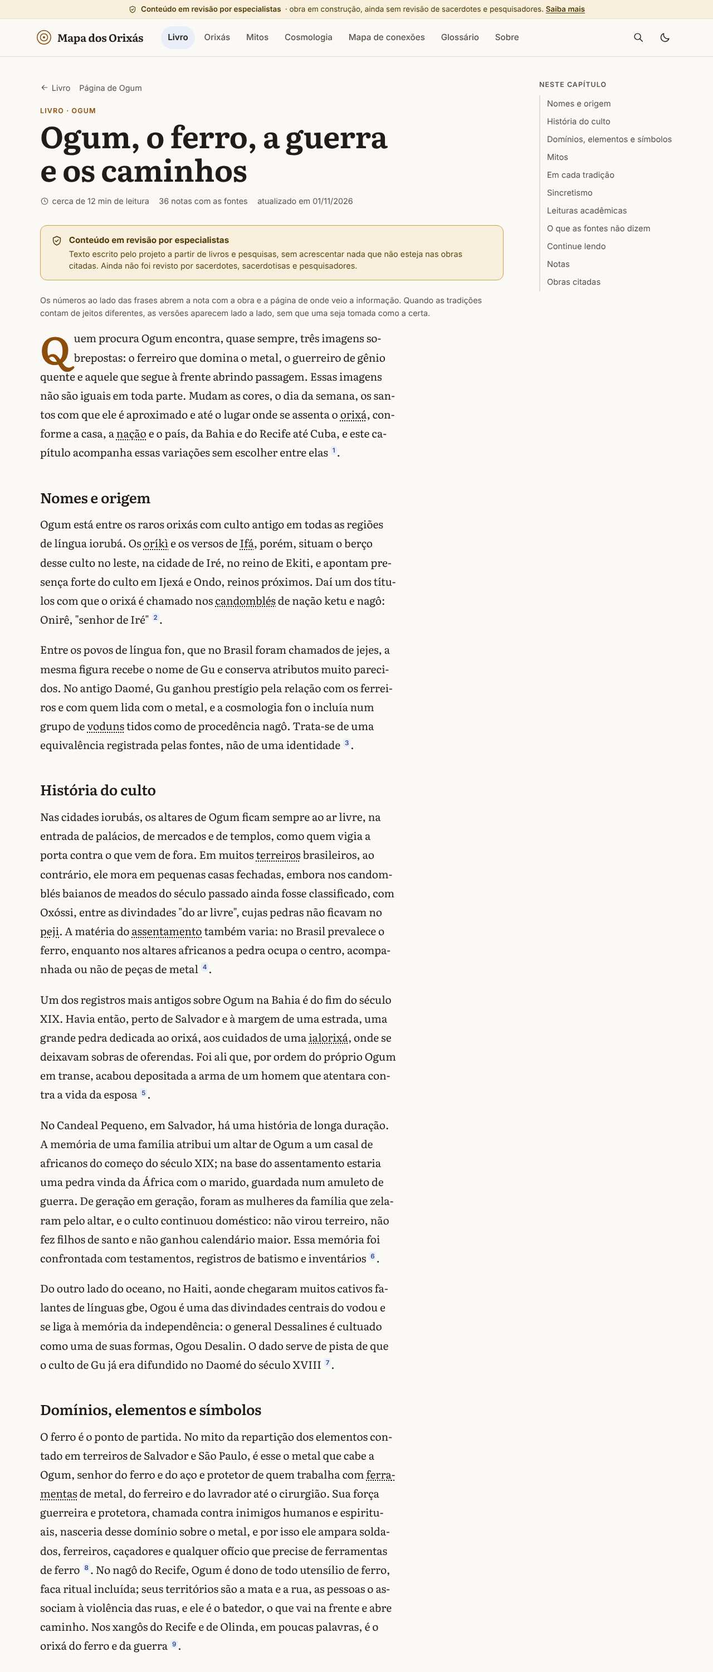
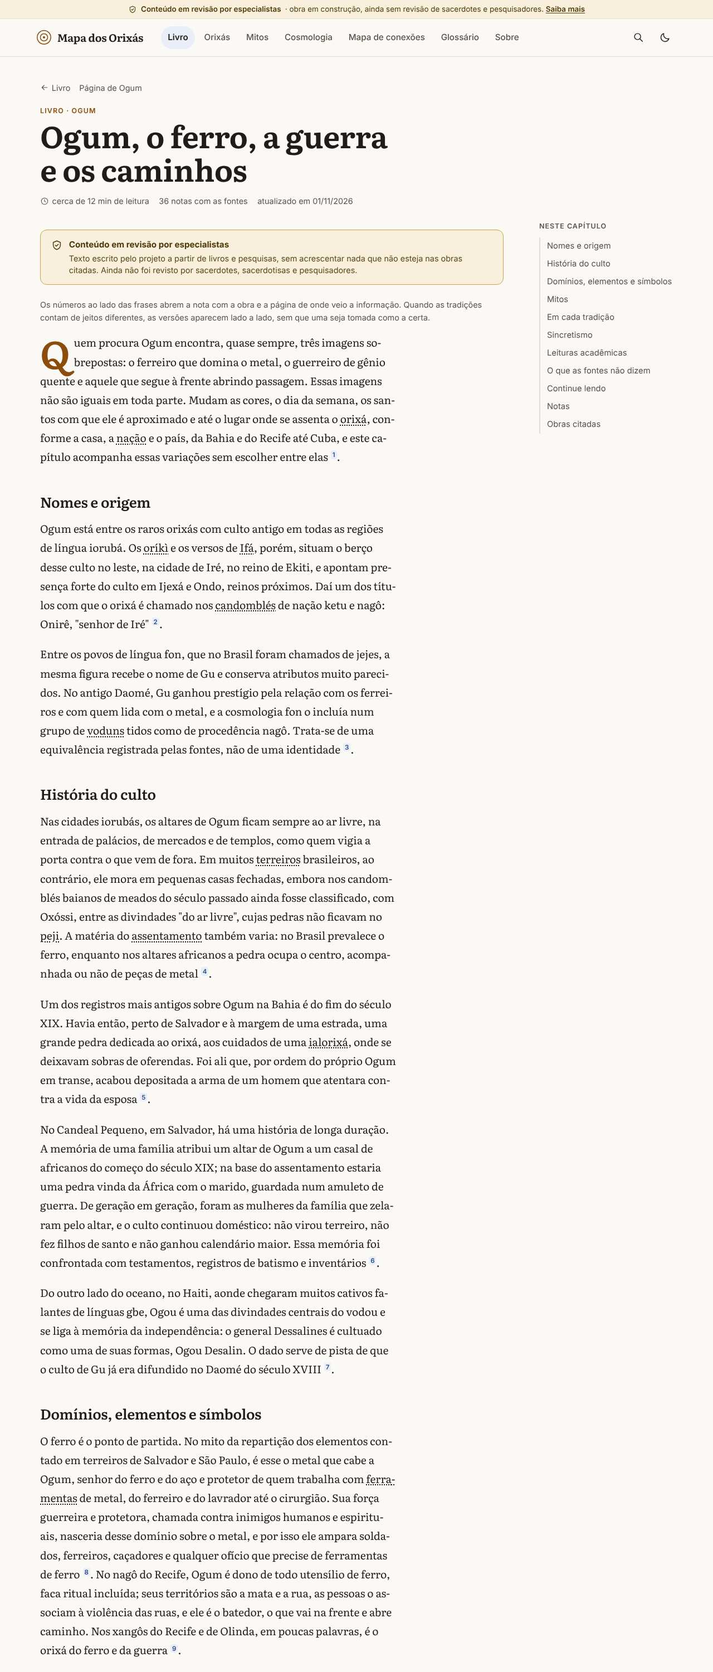
redesign: índice do capítulo sem pulo, mapa com posições do build, CSS embutido; teste de teclado, axe no tema escuro; relatório, ESTADO, publicação e PENDENCIAS
Claude-Session: https://claude.ai/code/session_011fM5cmiuwbGHtwpCrrwmfd

Changed region(s): [[0.0625, 0.124, 0.6875, 0.992], [0.75, 0.062, 0.875, 0.248]]

diff --git a/site/src/styles/global.css b/site/src/styles/global.css
@@ -207,7 +207,7 @@ p.aviso-sensivel.nota-caixa { border: 1px solid var(--borda); border-left: 4px s
   :root:not([data-tema='claro']) .etiqueta.g-afro_brasileira_regional { background: #352222; border-color: #cf8a8a; }
   :root:not([data-tema='claro']) .etiqueta.g-diaspora_caribenha { background: #1f2a38; border-color: #84a8d6; }
 }
-a.etiqueta { text-decoration: none; }
+a.etiqueta { text-decoration: none; display: inline-flex; align-items: center; min-height: 24px; padding: .1rem .6rem; }
 a.etiqueta:hover { text-decoration: underline; color: var(--texto); }
 
 /* ------------------------------------------------------------------ cartões */
@@ -363,7 +363,7 @@ sup.ref a:hover { background: var(--link); color: var(--fundo); }
 .notas li::marker { color: var(--texto-2); font-weight: 600; font-size: .85em; }
 .notas a { color: var(--link); }
 .notas li:target, .versao:target, tr:target, li:target { background: var(--marca-alvo); outline: 2px solid var(--aviso-borda); border-radius: 4px; }
-.voltar-nota { text-decoration: none; margin-left: .2rem; }
+.voltar-nota { margin-left: .2rem; }
 
 details.dobra { border: 1px solid var(--borda); border-radius: var(--raio); background: var(--superficie); margin: 1rem 0; }
 details.dobra > summary { cursor: pointer; padding: .9rem 1.1rem; font-weight: 600; list-style: none; display: flex; align-items: center; justify-content: space-between; gap: 1rem; }
@@ -395,24 +395,29 @@ a.termo-gl:hover { color: var(--link); }
 /* ------------------------------------------------------------------ capítulo (leitura) */
 .leitura { display: grid; gap: 2rem; grid-template-columns: minmax(0, 1fr); }
 @media (min-width: 68rem) { .leitura { grid-template-columns: minmax(0, 1fr) 15rem; gap: 4rem; } .leitura .indice-lateral { order: 2; } }
-.cabeca-capitulo { max-width: var(--coluna); margin: 0 auto 2rem 0; }
+.cabeca-capitulo { max-width: var(--coluna); margin: 0 0 1.5rem; }
+.topo-capitulo { margin-bottom: .5rem; }
 .cabeca-capitulo h1 { font-size: clamp(2.2rem, 1.6rem + 3vw, 3.4rem); line-height: 1.1; margin-bottom: 1rem; }
 .info-leitura { display: flex; flex-wrap: wrap; gap: .3rem 1.1rem; color: var(--texto-2); font-size: .9rem; align-items: center; }
 .info-leitura span { display: inline-flex; align-items: center; gap: .35rem; }
 .indice-lateral { font-size: .92rem; }
 .indice-lateral nav { position: sticky; top: 1.5rem; }
-.indice-lateral details { border: 1px solid var(--borda); border-radius: var(--raio); background: var(--superficie); }
-.indice-lateral summary { cursor: pointer; padding: .75rem 1rem; font-weight: 600; }
-.indice-lateral ol { list-style: none; margin: 0; padding: 0 1rem .8rem; counter-reset: sec; }
+.titulo-indice { font-size: .78rem; text-transform: uppercase; letter-spacing: .08em; color: var(--texto-2); font-weight: 600; margin: 0 0 .6rem; }
+.botao-indice { font: inherit; font-weight: 600; width: 100%; justify-content: space-between; align-items: center; min-height: 2.75rem; padding: .6rem 1rem; border: 1px solid var(--borda); border-radius: var(--raio); background: var(--superficie); color: var(--texto); cursor: pointer; }
+.indice-lateral ol { list-style: none; margin: 0; padding: 0; }
 .indice-lateral li { margin: 0; }
 .indice-lateral a { display: block; padding: .38rem 0 .38rem .75rem; border-left: 2px solid var(--borda); color: var(--texto-2); text-decoration: none; line-height: 1.35; }
 .indice-lateral a:hover { color: var(--texto); border-left-color: var(--borda-forte); }
 .indice-lateral a.atual { color: var(--texto); border-left-color: var(--ocre); font-weight: 600; }
+/* celular com JS: título vira botão e a lista fica recolhida */
+.js .titulo-indice { display: none; }
+.js .indice-lateral ol { display: none; padding: .6rem 1rem .2rem; }
+.js .indice-lateral.aberto ol { display: block; }
+.js .indice-lateral.aberto .botao-indice span { display: inline-block; transform: rotate(180deg); }
 @media (min-width: 68rem) {
-  .indice-lateral details { border: 0; background: transparent; }
-  .indice-lateral summary { padding: 0 0 .6rem; font-size: .78rem; text-transform: uppercase; letter-spacing: .08em; color: var(--texto-2); pointer-events: none; list-style: none; }
-  .indice-lateral summary::-webkit-details-marker { display: none; }
-  .indice-lateral ol { padding: 0; }
+  .js .titulo-indice { display: block; }
+  .js .botao-indice { display: none !important; }
+  .js .indice-lateral ol { display: block; padding: 0; }
 }
 .capitulo { max-width: var(--coluna); }
 .capitulo .paragrafo-capitulo { font-family: var(--serifa); font-size: 1.15rem; line-height: 1.78; margin: 0 0 1.25rem; hyphens: auto; -webkit-hyphens: auto; }

diff --git a/site/src/lib/grafo.js b/site/src/lib/grafo.js
@@ -17,6 +17,7 @@ export const FORMA_NO = {
   inquice: { forma: 'triangle', cor: '#1d6b4a', rotulo: 'triângulo' },
   nome_fon_ou_banto: { forma: 'vee', cor: '#4f6b5e', rotulo: 'seta (V)' },
   entidade: { forma: 'octagon', cor: '#8a5a00', rotulo: 'octógono' },
+  qualidade: { forma: 'round-tag', cor: '#a0522d', rotulo: 'etiqueta' },
 };
 export const ROTULO_LINHA = { solid: 'contínua', dashed: 'tracejada', dotted: 'pontilhada' };
 

diff --git a/site/src/lib/dados.js b/site/src/lib/dados.js
@@ -157,6 +157,7 @@ export const ROTULO_NO = {
   inquice: 'Inquice',
   nome_fon_ou_banto: 'Nome fon ou banto (sem classificação)',
   entidade: 'Entidade',
+  qualidade: 'Qualidade (de um orixá)',
 };
 
 export const ROTULO_TIPO_FONTE = {

diff --git a/scripts/qa_site.py b/scripts/qa_site.py
@@ -11,9 +11,11 @@ Confere, sem rede e só com a biblioteca padrão:
    arquivo publicado (HTML, JSON, TXT): paráfrase, nota e valor (quando o valor
    não coincide com o de um registro publicável). Os ids desses registros só podem
    aparecer na seção "Pendências" das fichas e no campo `pendencias` dos JSON.
-3. Selo de rascunho em toda ficha que tenha alguma versão sem revisão vigente
-   (sem selo, e com o aviso de ficha revisada, só quando TODAS as versões estão
-   'revisado'); `noindex` em todas as páginas.
+3. Selo "Conteúdo em revisão por especialistas" em toda ficha que tenha alguma
+   versão sem revisão vigente (sem selo, e com o aviso de ficha revisada, só quando
+   TODAS as versões estão 'revisado'); estado da revisão em "O que ainda falta"
+   (data-revisadas/data-total); `noindex` em todas as páginas. O registro de cada
+   nota fica no atributo data-registro (o código não aparece no texto).
 4. Links internos (href/src) apontam para arquivos existentes e âncoras (#id)
    existentes na página de destino.
 5. /dados/: cópias idênticas a data/ (exceto tradicoes.json, que só pode perder
@@ -27,8 +29,8 @@ Confere, sem rede e só com a biblioteca padrão:
    idênticas ao JSON; `rascunho_sem_fonte` com o aviso "Descrição pendente de
    fonte" e o texto do rascunho (descrição e nota) ausente de TODAS as páginas.
    Fichas e catálogo linkam para a página Tradições.
-8. Sobre: canal de contribuição pelas issues do repositório, link para Fontes,
-   aviso de que licenças, domínio e autoria dependem do autor e nenhum e-mail.
+8. Sobre: link para Fontes, seção #contribuir, aviso de revisão e de que licenças
+   e autoria dependem do autor; nenhum e-mail em nenhuma página.
 9. Revisão do conselho: cada versão mostra exatamente as linhas "Revisado por …
    (tradição) em …" / "Contestado por …" das suas `revisoes`, com o crédito que o
    consentimento permite (scripts/revisao.py: quem, linha_credito); versão sem
@@ -60,9 +62,14 @@ absoluto fora do prefixo conta como quebrado.
    selo; parágrafos e chamadas de nota idênticos ao JSON; notas com exatamente os
    itens do JSON e cada registro publicável, com autor, ano, página e link para a
    fonte; página Livro lista todos; a ficha linka para o capítulo.
-10. Publicação (rascunho): faixa "Rascunho — aguardando revisão…" em TODAS as
-   páginas; Início com o aviso de versão inicial em revisão e link para as
-   issues; nenhum <link rel=canonical>/sitemap que convide indexação.
+10. Publicação (rascunho): faixa "Conteúdo em revisão por especialistas" em TODAS
+   as páginas; Início com o aviso de versão inicial em revisão e link para
+   Sobre (#revisao); nenhum <link rel=canonical>/sitemap que convide indexação.
+13. Linguagem para leigos (redesign 01): nenhum link para issues do GitHub e,
+   no texto visível da interface, nada de status internos (pre_fichamento,
+   conferido_web…), "fichamento", códigos de confiabilidade, JSON (fora de Dados
+   abertos) nem códigos de registro (ex.: ogum-012). Textos que vêm de data/
+   (capítulos, observações) são descontados: são conteúdo de outras sessões.
 """
 import html
 import json

diff --git a/tests/e2e_modelo2_site.py b/tests/e2e_modelo2_site.py
@@ -89,8 +89,11 @@ def main():
 
         # adulterações → o QA precisa acusar
         casos = [
-            ("catalogo/index.html", '<h2>Iyami</h2><p class="tipo-entidade">Ancestrais</p>', '<h2>Iyami</h2><p class="tipo-entidade">Ancestrais</p><p>texto inventado</p>', "cartão em pesquisa com texto"),
-            ("cosmologia/index.html", '<h2 id="versoes-hierarquia">Versões com fonte</h2>', '<h2 id="versoes-hierarquia">Versões com fonte</h2><p id="aviso-sem-hierarquia">x</p>', "aviso de estrutura vazia"),
+            ("catalogo/index.html", '<p class="tipo-entidade">Ancestrais</p><h2>Iyami</h2>', '<p class="tipo-entidade">Ancestrais</p><h2>Iyami</h2><p>texto inventado</p>', "cartão em pesquisa com texto"),
+            ("cosmologia/index.html", '<h2 id="versoes-hierarquia">O que cada obra diz</h2>', '<h2 id="versoes-hierarquia">O que cada obra diz</h2><p id="aviso-sem-hierarquia">x</p>', "aviso de estrutura vazia"),
+            # linguagem para leigos: jargão e códigos internos na interface
+            ("catalogo/index.html", "<h1>", '<p>Abra uma <a href="https://github.com/x/y/issues">issue</a></p><h1>', "instrução do GitHub"),
+            ("catalogo/index.html", "<h1>", "<p>Registro olodumare-001, status pre_fichamento.</p><h1>", "código interno de registro"),
             ("itans/ita-002/index.html", 'class="resumo">', 'class="resumo">ADULTERADO ', "resumo difere"),
         ]
         for rel, de, para, msg in casos:

diff --git a/tests/e2e_revisao_site.py b/tests/e2e_revisao_site.py
@@ -149,7 +149,7 @@ def main():
 
         html_exu = (raiz / "site/dist/orixas/exu/index.html").read_text(encoding="utf-8")
         html_ox = (raiz / "site/dist/orixas/oxossi/index.html").read_text(encoding="utf-8")
-        assert "Rascunho — aguardando revisão" in html_exu
+        assert "Conteúdo em revisão por especialistas" in html_exu
         assert 'class="selo"' not in html_ox and "selo-revisado" in html_ox
         assert "Revisado com ressalva por Nome Fictício Só" in html_exu
         assert "Contestado por revisor/a anônimo/a" in html_exu
@@ -157,7 +157,7 @@ def main():
 
         # o QA precisa acusar adulterações
         casos = {
-            "selo de volta numa ficha revisada": ("oxossi", lambda h: h.replace('<p class="selo-revisado"', '<p class="selo" role="note">Rascunho — aguardando revisão de praticantes e pesquisadores</p><p class="selo-revisado"', 1)),
+            "selo de volta numa ficha revisada": ("oxossi", lambda h: h.replace('<p class="selo-revisado"', '<p class="selo" role="note">Conteúdo em revisão por especialistas</p><p class="selo-revisado"', 1)),
             "linha de revisão removida": ("exu", lambda h: h.replace('class="revisao"', 'class="revisao-x"', 1)),
             "crédito trocado": ("exu", lambda h: h.replace("Nome Fictício Só", "Outro Nome", 1)),
         }

diff --git a/docs/pesquisa/redesign-01.md b/docs/pesquisa/redesign-01.md
@@ -1,0 +1,109 @@
+# Redesign 01 — visual e linguagem do site para o público leigo
+
+**Sessão:** redesign (trabalhadora, coordenada pela orquestradora), 2026-11-02.
+**Pedido do autor:** o site parecia de layout antigo e técnico demais; o público é leigo. Redesign completo do visual e da linguagem da interface, **sem mudar o conteúdo** (`data/` não foi tocado: `git diff data/` vazio).
+
+## 1. O que mudou
+
+### Identidade visual
+- **Tipografia:** Literata (serifada feita para leitura longa em tela, usada nos títulos, capítulos e definições) e Inter (interface). As duas são **auto-hospedadas** pelos pacotes `@fontsource-variable/literata` e `@fontsource-variable/inter` (licença OFL), sem Google Fonts em tempo de execução: nenhum pedido a terceiros e nada de rastreamento. Os subconjuntos com `unicode-range` cobrem as letras iorubás com ponto (ẹ, ọ, ṣ).
+- **Paleta sóbria:** papel quente (#fbf9f5), tinta escura, índigo para links e ocre como destaque discreto. Contraste AA conferido pelo axe nos dois temas.
+- **Modo claro e escuro:** segue o sistema e tem um botão no cabeçalho (a escolha fica guardada no navegador; sem armazenamento, vale só na página). O desenho do mapa de conexões troca de cores junto com o tema.
+- **Sem imagens de divindades:** só tipografia, cor, ícones de traço genéricos (livro, grade, folha, órbita, rede) e um padrão geométrico de círculos concêntricos na capa. Nada de estética "exótica".
+- **Mobile-first:** menu recolhido atrás de um botão no celular (com Esc e foco corretos), cartões em uma coluna, filtros empilhados, índice do capítulo recolhido no topo.
+
+### Leitura dos capítulos (livro/revista)
+- Coluna de cerca de 40rem, Literata em 1,15–1,2rem com entrelinha 1,78, hifenização e capitular na abertura.
+- **Notas discretas que abrem ao toque/clique** (e ao passar o mouse em computador) numa caixa junto ao número, sem tirar o leitor do lugar (`site/src/lib/notas-popover.ts`). Pelo teclado, Enter abre e leva o foco à caixa; Esc fecha e devolve o foco. Sem JavaScript, o número continua sendo link para a nota no fim da página.
+- **Índice lateral** fixo no computador, com a seção atual destacada; no celular vira botão "Neste capítulo" no topo.
+- Tempo de leitura estimado, número de notas e data de atualização na cabeça do capítulo.
+
+### Páginas e navegação
+| Antes (menu com 12 itens) | Depois |
+|---|---|
+| Início, Catálogo, Livro, Itãs, Cosmologia, Grafo, Tradições, Glossário, Fontes, Metodologia, Baixar dados, Sobre | **Menu:** Livro, Orixás, Mitos, Cosmologia, Mapa de conexões, Glossário, Sobre (+ ícones de busca e de tema). **Rodapé:** Fontes e bibliografia, Tradições e nações, Glossário, Sobre, Buscar, Dados abertos para pesquisa |
+
+- **Início:** o que é, aviso de revisão, "Por onde começar" (Livro, Orixás, Mitos, Cosmologia), os orixás com página, "Como ler este site" (tudo tem fonte; não há versão única; respeito às tradições) e "Para ir além".
+- **Orixás** (`/catalogo/`): cartões limpos (tipo, nome, até 4 etiquetas de tradição, "Capítulo para ler", número de mitos e de obras); filtros simples (nome, tipo, tradição, mostrar). Primeiro os que têm página; os "Em pesquisa" depois, só com nome e tipo.
+- **Página do orixá:** resumo em destaque ("Em resumo": domínios, elementos, cores, dia, símbolos, sincretismo, lugar na cosmologia, até 3 versões cada, com nota) → destaque do capítulo ("Ler o capítulo") → **Em cada tradição** (todas as versões, por item) → **Variações entre casas e nações** (quadros comparativos recolhíveis) → **Mitos** → **Conexões** (desenho carregado só quando a seção chega à tela, e lista) → Palavras desta página → **O que ainda falta** → **Fontes desta página**.
+- **Livro:** cartões com capítulo, orixá, seções e tempo de leitura; visões de conjunto primeiro; "Capítulos em preparo".
+- **Mitos** e página de cada mito; **Cosmologia**; **Mapa de conexões** com explicação em três passos ("cada ponto é um nome…"), aviso "Equivalente não quer dizer igual" e lista completa; **Glossário** com índice por letra e por assunto; **Fontes** como bibliografia legível (obras citadas no site primeiro, depois a bibliografia de pesquisa); **Buscar** (página própria, Pagefind).
+- **Sobre** absorveu a **Metodologia** (a página `/metodologia/` saiu): o que é, conteúdo em revisão, como foi feito (5 passos), diferenças entre tradições (com os exemplos citados de antes: dias da semana, a hesitação do pai de santo, o itã de Oxóssi em disputa), Candomblé e Umbanda, respeito e sigilo, limites, correções, créditos e direitos de uso. Os exemplos continuam com fonte (componente `Ref`, que derruba o build se o registro não estiver fichado).
+
+**Por que fundir Metodologia e Sobre:** para o leigo, "Metodologia" é jargão e as duas páginas repetiam o mesmo assunto (regras, revisão, limites). Juntas, numa só página em linguagem simples, a honestidade sobre limites e divergências fica no mesmo lugar em que se explica o que o site é. Nada da substância saiu: princípios, os 5 passos, os exemplos com fonte, sigilo, revisão e limitações estão lá, só sem os nomes de arquivos, status e códigos.
+
+**Por que manter "Baixar dados", mas só no rodapé:** para o leigo, a página não faz sentido e saiu da navegação principal. Mas ela é útil para pesquisadores e é a forma de os dados circularem com as fontes; por isso ficou no rodapé como "Dados abertos para pesquisa", com texto simples ("arquivos no formato JSON, que pode ser aberto em qualquer editor"), o aviso "Direitos de uso: a definir pelo autor" e as mesmas exclusões do site. Os nomes de arquivo de origem no repositório saíram da tabela.
+
+### Linguagem para leigos
+| Antes | Depois |
+|---|---|
+| "Rascunho — aguardando revisão de praticantes e pesquisadores" + link para issues | **"Conteúdo em revisão por especialistas"** (faixa discreta em todas as páginas, com "Saiba mais" → Sobre) |
+| ids de registro nas notas (`ogum-012`) e "Registro `x`" | nada visível; o vínculo fica no atributo `data-registro` (conferido pelo QA) |
+| "Nota do fichamento" | "Observação" |
+| "Fonte:" / ids de fonte | "De acordo com …" e "Fontes desta página" |
+| "Divergências" | "Variações entre casas e nações" |
+| atributos ("Itãs (resumos parafraseados)", "Interpretação acadêmica", "Hierarquia e posição cosmológica") | "Mitos (itãs)", "Leituras de pesquisadores", "Lugar na cosmologia" |
+| "Pendências e campos sem fonte", ids em pré-fichamento, "Retidos até decisão do conselho" | "O que ainda falta": itens sem obra lida; "à espera da leitura da obra original" (só contagem); "guardados até a revisão" (só contagem e tema) |
+| confiabilidade A/B/C/D, status `conferido_web`/`a_verificar`/`pista`, "Observações" técnicas do catálogo | fora do site; obras de nível C marcadas "Lida com cautela: documento de época ou obra de divulgação…" |
+| "Lacuna: Nenhum registro fichado de … (conferido pelo validador)" | "As obras reunidas até agora não dizem nada sobre …" + link "O que ainda falta" |
+| "Obra ou decisão pendente … (registro de pendências)" com link para o GitHub | "Assunto ainda em estudo, à espera de uma obra ou de uma decisão da revisão: …" |
+| "nós", "arestas", "grafo" | "nomes", "relações", "mapa de conexões" |
+| "Descrição pendente de fonte" | "Descrição em preparo" |
+
+- **Sem nomes de pessoas do projeto nem contatos.** O Sobre não cita o autor nem revisores, e não há e-mail (já conferido pelo QA). As linhas de crédito de revisão por versão ("Revisado por … (tradição)") continuam, porque obedecem ao consentimento de cada revisor e são garantia do QA §9; hoje não há revisor cadastrado, logo nada aparece (decisão registrada em PENDENCIAS §3b, redesign).
+- **Sem issues do GitHub.** Ficou sem canal de correções: o Sobre diz que um canal simples será aberto junto com o grupo de revisão. **Pendência P1 do autor** (PENDENCIAS §3b, redesign).
+- O texto que vem de `data/` (capítulos e observações das fichas) **não foi mudado**. Ali ainda há "fichamento" (82 trechos em 25 capítulos), códigos de registro nas observações (102 versões) e "confiabilidade C" (36 versões). Fica como sugestão para as sessões de conteúdo (PENDENCIAS §3b, redesign).
+
+## 2. Garantias mantidas e QA
+
+`scripts/qa_site.py` foi adaptado **sem afrouxar** nada:
+- selo e faixa conferidos pelo novo texto (`SELO = "Conteúdo em revisão por especialistas"`, igual a `site/src/lib/textos.js`);
+- notas das fichas: o registro de cada nota é lido de `data-registro` (antes, de um `<code>` visível); continua conferindo fonte, via, ano e página de cada versão, e a tabela de variações contra a nota;
+- versão dentro da seção do seu atributo: título `h3` (ou `h2`) com `id` = atributo;
+- estado da revisão: atributos `data-revisadas`/`data-total` + texto;
+- pré-fichamento e retidos: o id não pode aparecer como versão, nota (`<code>` **ou** `data-registro`) nem fora de "O que ainda falta" (onde, agora, nem aparece);
+- Início: o aviso de versão inicial precisa dizer que o conteúdo está em revisão e linkar para Sobre (#revisao), no lugar do link de issues;
+- Sobre: Fontes, #contribuir, aviso de revisão, licenças e autoria a cargo do autor, nenhum e-mail;
+- tradições sem fonte: aviso "Descrição em preparo" e o texto do rascunho ausente de todas as páginas;
+- **novo §13 — linguagem para leigos:** nenhum link de issues em nenhuma página e, no texto visível da interface, nada de status internos, "fichamento", códigos de confiabilidade, JSON (fora de Dados abertos), "validador" nem códigos de registro. O texto que vem de `data/` (frases de ≥ 2 palavras) é descontado, porque é conteúdo de outras sessões. Testado por adulteração (link de issue, "pre_fichamento", "confiabilidade A", "exu-001" → 5 erros) e nos e2e.
+- Testes e2e atualizados (`tests/e2e_modelo2_site.py`, `tests/e2e_revisao_site.py`) para a nova marcação, com dois casos novos de adulteração de linguagem.
+
+Mantidos: `noindex` em todas as páginas, sem sitemap nem `canonical`; aviso de tema sensível no catálogo, na página do orixá e no capítulo; nada de pré-fichamento, retidos ou acervo no site (§2 e acervo do QA); fontes sempre a um toque, nas notas.
+
+## 3. Acessibilidade, teclado e desempenho
+
+- **axe-core** (WCAG 2.1 A/AA + boas práticas; `site/scripts/acessibilidade.cjs`, agora também com uma amostra de 10 páginas no **tema escuro**): 94 páginas × 1280 e 390 px + 10 no escuro = 198 verificações, **0 violações** (graves ou não). Durante a sessão o axe pegou os links "↩" das notas sem sublinhado (link-in-text-block); corrigido.
+- **Teclado e toque** (novo `site/scripts/teclado.cjs`, 21 verificações): "Pular para o conteúdo"; nota abre com Enter, recebe o foco, fecha com Esc e devolve o foco; clique abre sem rolar a página e fecha ao clicar fora; tema troca e é lembrado; menu do celular abre, fecha com Esc e devolve o foco; índice do capítulo recolhido no celular e fecha ao escolher uma seção; sem JavaScript, menu visível e nota como link. Tudo ok.
+- **Lighthouse 12.6.1** (perfil de celular, servidor local, build com `SITE_BASE=/mapadosorixas`):
+
+| Página | Desempenho | Acessib. | Boas práticas | SEO |
+|---|:-:|:-:|:-:|:-:|
+| Início | 100 | 100 | 100 | 60* |
+| Orixás | 100 | 100 | 100 | 60* |
+| Xangô | 92 | 100 | 100 | 60* |
+| Capítulo de Ogum | 100 | 100 | 100 | 60* |
+| Mapa de conexões | 91 | 100 | 100 | 60* |
+| Glossário | 95 | 100 | 100 | 60* |
+
+\* SEO 60 é proposital: o Lighthouse desconta o `noindex`, que fica até a revisão.
+
+Ajustes de desempenho feitos para chegar lá: CSS embutido no HTML (`inlineStylesheets: 'always'`, sem pedido que bloqueie a pintura); índice do capítulo sem "pulo" de layout (CLS 0,32 → 0,03); **posições do mapa calculadas no build** (Cytoscape sem tela no Node, layout `cose`; o navegador só desenha com `preset`: bloqueio 1,4 s → 0,35 s, nota 75 → 91); desenho de conexões da página do orixá carregado só quando a seção se aproxima da tela; etiquetas-link com 24 px de altura (alvo de toque).
+
+## 4. Screenshots
+
+Em [`docs/screenshots/redesign/`](../screenshots/redesign/): `antes-*` (site anterior) e `depois-*`, para Início, Orixás, Xangô, capítulo de Ogum, Livro, Mitos, Mapa, Sobre e Fontes, em desktop (1280 px) e celular (390 px), e Início, capítulo e Xangô no tema escuro (`*-desktop-escuro`; no "antes" não havia tema escuro). JPEG, até 3000 px de altura. Gerados por `site/scripts/screenshots-redesign.cjs <antes|depois>` (com `BASE=<url>` tira da URL publicada).
+
+## 5. Validadores e testes
+
+Rodados no fim da sessão: `validar_fontes`, `validar_fichamento`, `divergencias`, `gerar_fichas` (sem diferença em `data/`), `validar_fichas`, `anticopia` (0 erros; avisos já existentes), `validar_capitulos`, `python3 -m unittest discover -s tests` (82 testes ok), build com `SITE_BASE=/mapadosorixas`, `qa_site.py` ok, os 3 e2e, axe, teclado e Lighthouse (acima). Conferência da URL publicada: ver §6.
+
+## 6. Publicação
+
+Push direto na `main`; o workflow `deploy-pages.yml` publica. A conferência da URL publicada com Playwright está registrada no fim deste relatório.
+
+## 7. Pendências abertas (em PENDENCIAS §3b, "Redesign do site")
+
+1. **Canal de correções para leigos** (P1, autor).
+2. **Jargão no conteúdo de `data/`** (P2, sessões de conteúdo).
+3. Crédito de revisores por versão quando houver revisores (P3, autor).
+4. Leitor de tela real nas caixas de nota e no menu do celular (P3).

diff --git a/docs/ESTADO.md b/docs/ESTADO.md
@@ -2,7 +2,7 @@
 
 > Arquivo de passagem entre sessões. **Toda sessão começa lendo este arquivo e termina atualizando-o.** Mantenha-o curto, com no máximo uma página: o detalhe fica nos relatórios linkados.
 
-**Última atualização:** 2026-11-02 (sessão **cap05**: validador de capítulos com acentos iorubás (NFD) e nomes curtos de tradição (Oyó, Ifé); aviso de tema sensível na página do capítulo; capítulo-panorama `cosmologia.md` em `/cosmologia/capitulo/`; OCR de Ogungbemi 2021 no acervo; QA de vazamento passa a ler o acervo `orixas-fontes` ([relatório](pesquisa/capitulos-05.md)); sessão **cap04**: capítulos da cosmologia e hierarquia — Olodumare, Orum, Aiê, Orí, Odudua, Olokun e Egungun; Iyami à espera do conselho; panorama `cosmologia.md` proposto ([relatório](pesquisa/capitulos-04.md)); sessão **cap01**: capítulos narrativos — formato, validador, página do capítulo, índice "Livro" e os 5 primeiros capítulos (Exu, Ogum, Oxóssi, Xangô, Iemanjá), sem citação no corpo do texto ([relatório](pesquisa/capitulos-01.md), [guia](capitulos-guia.md)); sessão **acervo2**: scripts do acervo passam a usar o repo privado `orixas-fontes` (`ACERVO_DIR`, `acervo_sync.sh`); carga do repo privado bloqueada por permissão ([relatório](pesquisa/acervo-02.md)); sessão **compl01**: Chiousse 1995, Halloy 2005, Toutain 2019 e Ferreira 2017 relidos pelo acervo — +131 registros para Oxalá, Oxum, Iansã, Omulu, Nanã, Orunmilá (ficha nova) e complementos; +4 itãs; festa de Elegguá ([relatório](pesquisa/complemento-01.md)); sessão **acervo**: acervo interno de texto integral `acervo/` — estrutura, script, índice e proteções; conteúdo só local porque o repositório é público ([relatório](pesquisa/acervo-01.md)); sessão **integBC**: itãs e arestas dos lotes B e C integrados, entidade Orí criada ([relatório](pesquisa/integracao-BC.md)); antes, sessões **loteB**, **loteC**, **loteA** e **varredura4**; loteB: Ossaim, Obá, Ibeji, Iroko, Logunedé, Oxumarê e Ewá, 176 registros ([relatório](pesquisa/lote-B.md)); loteC: cosmologia e hierarquia, 67 registros ([relatório](pesquisa/lote-C.md)); loteA: Oxalá, Oxum, Iansã, Nanã e Omolu fichados; antes: modelo2, trad02, fichamento-06/07/08, revisao, anticopia, anticopia2 e pages)
+**Última atualização:** 2026-11-02 (sessão **redesign**: novo visual (Literata + Inter auto-hospedadas, claro/escuro, mobile-first, capítulos com leitura de livro e notas que abrem ao toque) e linguagem para leigos em todo o site; Metodologia fundida ao Sobre; Baixar dados só no rodapé ("Dados abertos"); sem issues do GitHub nem códigos internos na interface; `qa_site.py` §13 (linguagem); axe 0 violações, Lighthouse ≥ 91 ([relatório](pesquisa/redesign-01.md)); sessão **cap05**: validador de capítulos com acentos iorubás (NFD) e nomes curtos de tradição (Oyó, Ifé); aviso de tema sensível na página do capítulo; capítulo-panorama `cosmologia.md` em `/cosmologia/capitulo/`; OCR de Ogungbemi 2021 no acervo; QA de vazamento passa a ler o acervo `orixas-fontes` ([relatório](pesquisa/capitulos-05.md)); sessão **cap04**: capítulos da cosmologia e hierarquia — Olodumare, Orum, Aiê, Orí, Odudua, Olokun e Egungun; Iyami à espera do conselho; panorama `cosmologia.md` proposto ([relatório](pesquisa/capitulos-04.md)); sessão **cap01**: capítulos narrativos — formato, validador, página do capítulo, índice "Livro" e os 5 primeiros capítulos (Exu, Ogum, Oxóssi, Xangô, Iemanjá), sem citação no corpo do texto ([relatório](pesquisa/capitulos-01.md), [guia](capitulos-guia.md)); sessão **acervo2**: scripts do acervo passam a usar o repo privado `orixas-fontes` (`ACERVO_DIR`, `acervo_sync.sh`); carga do repo privado bloqueada por permissão ([relatório](pesquisa/acervo-02.md)); sessão **compl01**: Chiousse 1995, Halloy 2005, Toutain 2019 e Ferreira 2017 relidos pelo acervo — +131 registros para Oxalá, Oxum, Iansã, Omulu, Nanã, Orunmilá (ficha nova) e complementos; +4 itãs; festa de Elegguá ([relatório](pesquisa/complemento-01.md)); sessão **acervo**: acervo interno de texto integral `acervo/` — estrutura, script, índice e proteções; conteúdo só local porque o repositório é público ([relatório](pesquisa/acervo-01.md)); sessão **integBC**: itãs e arestas dos lotes B e C integrados, entidade Orí criada ([relatório](pesquisa/integracao-BC.md)); antes, sessões **loteB**, **loteC**, **loteA** e **varredura4**; loteB: Ossaim, Obá, Ibeji, Iroko, Logunedé, Oxumarê e Ewá, 176 registros ([relatório](pesquisa/lote-B.md)); loteC: cosmologia e hierarquia, 67 registros ([relatório](pesquisa/lote-C.md)); loteA: Oxalá, Oxum, Iansã, Nanã e Omolu fichados; antes: modelo2, trad02, fichamento-06/07/08, revisao, anticopia, anticopia2 e pages)
 
 ## Onde estamos
 
@@ -55,7 +55,7 @@ Registros por entidade: Exu 103 · Ogum 66 · Iemanjá 64 · Oxalá 64 · Xangô
 5. **Resolver os 16 `pre_fichamento`** e as **fontes P1 bloqueadas** (Prandi 1995, Giumbelli & Lima 2024, Noleto & Negrão 2025, Ferreira 2017, Ribas 2010; Halloy e Toutain no HAL) → PENDENCIAS §1–2. *(Busca de texto aberto feita em 2026-11-01; fontes abertas da varredura 3 esgotadas.)*
 6. ~~**Nova varredura de fontes para a expansão**~~: feita na **varredura 4** (2026-11-01, [relatório](pesquisa/relatorio-varredura-04.md)): +106 fontes, 13 obras em domínio público com texto integral, cobertura por entidade e lotes A–D (acima). Repetir BDTD e OpenAlex quando acessíveis (`coletar.py --bases bdtd,openalex` com as consultas `v4-*`).
 7. **Fase 2 (restante):** 3 tradições sem fonte (Arará, Orisha de Trinidad, `benim`), Efon (Lima 2014), termos pendentes do glossário → PENDENCIAS.
-8. **Site:** versões es/en; licença dos dados (P1 com o site público) e domínio → PENDENCIAS §3b.
+8. **Site:** **canal de correções para leigos (P1, autor: o redesign tirou as issues do site)**; versões es/en; licença dos dados (P1 com o site público) e domínio → PENDENCIAS §3b. Sugestão às sessões de conteúdo: tirar "fichamento", códigos de registro e "confiabilidade C" dos capítulos e observações (PENDENCIAS §3b, redesign).
 9. **Conselho consultivo:** contato com candidatos ([`conselho/candidatos.md`](conselho/candidatos.md)) e decisões de §3c, agora incluindo a escolha final do panteão da primeira leva e o que publicar sobre Iyami.
 
 **Sugestões da sessão trad02:**
@@ -72,6 +72,7 @@ Registros por entidade: Exu 103 · Ogum 66 · Iemanjá 64 · Oxalá 64 · Xangô
 
 - **Capítulos (cap01):** texto do projeto em `data/capitulos/<id>.md`, montado só com registros `fichado`/`revisado` não retidos; todo trecho termina num marcador (`{{ref}}`, `{{lacuna}}` conferida, `{{pendencia}}` em PENDENCIAS). **Estilo pedido pelo autor:** sem citação no corpo ("segundo Fulano"); atribuição pela tradição, casa ou região; notas agrupadas no rodapé; pesquisadores nomeados só em "Leituras acadêmicas" e nas lacunas; fonte colonial sinalizada pelo tipo de documento. O validador cobra tudo isso.
 - **Lote C (cosmologia):** fontes coloniais/missionárias (Ellis, Dennett, Farrow) entram com nota de viés em cada registro e sempre ao lado de fonte A/B; o que só repete Ellis é citado em Ellis. Iyami: só camada histórico-acadêmica (designação, difusão, sociedades), nada de poderes, mitos ou práticas. Egungun: posição cosmológica, festas e distribuição por nação; cargos, objetos e etapas rituais não se ficham até o conselho. Textos do Internet Archive vão para `/tmp/refs/<id>.txt` a partir do `_djvu.txt` e devem ser repostos depois de `baixar_refs.py` (que os troca por PDF sem OCR).
+- **Site para leigos (redesign):** a interface não mostra jargão interno (status, "fichamento", códigos de registro ou de confiabilidade, JSON fora de Dados abertos), issues do GitHub nem nomes/contatos de pessoas do projeto; selo = "Conteúdo em revisão por especialistas" (`site/src/lib/textos.js` = `SELO` do `qa_site.py`); o registro de cada nota vai em `data-registro`. Conferido pelo `qa_site.py` §13. Metodologia vive dentro do Sobre.
 - Commit e push **direto na `main`**, sem branch nem PR (pedido do autor).
 - Só fontes A/B sustentam ficha. Blogs e sites de divulgação (nível D) servem apenas como pista.
 - Registro `fichado` exige página e fonte lida pelo menos `conferido_web`. Afirmação de 2ª mão leva `via_source_id`.

diff --git a/docs/pesquisa/PENDENCIAS.md b/docs/pesquisa/PENDENCIAS.md
@@ -204,9 +204,18 @@ O protótipo em `site/` (Astro) compila no CI. **Sessão pages (2026-11-01): pub
 | 🔴 | Indexação | o site sai com `<meta name="robots" content="noindex">` enquanto for rascunho. Retirar só depois da revisão das fichas | P1 (no lançamento) |
 | 🟡 | Revisão de acessibilidade com leitor de tela real e Lighthouse | automatizado feito: axe-core (WCAG 2.1 A/AA + boas práticas) em todas as 14 páginas, 1280 e 390 px, sem violações (sessão modelo2: 26 páginas, incluindo Itãs e Cosmologia, sem violação grave) (`site/scripts/acessibilidade.cjs`; em 2026-10-31 corrigido o campo de busca sem rótulo visível). Falta auditoria humana (NVDA/VoiceOver), em especial do mini-grafo e do grafo (canvas: o leitor de tela recebe só o `aria-label` e a lista/tabela equivalente), e Lighthouse ≥ 90 | P2 |
 | 🔴 | Dados publicados em "Baixar dados" (`/dados/`) | a página publica cópias de `data/orixas/*.json`, `conexoes.json`, `entidades_equivalentes.json`, `divergencias.json`, `glossario.json`, do catálogo de fontes e (sessão modelo2) `entidades.json` sem grupos não confirmados e `itans.json` só com versões lidas, com aviso "licença a definir pelo autor". Decidir: (a) a licença dos dados; (b) se o catálogo deve sair inteiro, incluindo fontes `pista` (nível D) e observações internas; (c) se as fichas JSON devem continuar listando os **ids** de registros retidos e em pré-fichamento em `pendencias` (só ids, sem conteúdo, como na seção Pendências das fichas HTML). O fichamento bruto **não** é publicado (tem registros retidos e em pré-fichamento) e `tradicoes.json` sai sem as descrições ainda sem fonte | P2 |
-| 🔴 | Página Sobre/Créditos (`/sobre/`) | redigida em 2026-10-31 a partir do `CLAUDE.md`, com canal de contribuição pelas **issues do repositório** (nenhum contato pessoal). Conferir: (a) a forma final dos créditos de autoria (nome do autor? coletivo?); (b) a frase que declara o preparo com assistência de IA (Claude) sob curadoria do autor — manter, reescrever ou retirar; (c) se as issues continuam sendo o canal ou se haverá e-mail/formulário do projeto; (d) o crédito ao Mapa de la Conciencia como inspiração de formato | P2 |
+| 🔴 | Página Sobre/Créditos (`/sobre/`) | redigida em 2026-10-31 a partir do `CLAUDE.md`; **reescrita no redesign (2026-11-02)** em linguagem simples, absorvendo a antiga Metodologia, **sem link de issues** (ver canal de correções abaixo). Conferir: (a) a forma final dos créditos de autoria (nome do autor? coletivo?); (b) a frase que declara o preparo com assistência de IA (Claude) sob curadoria do autor — manter, reescrever ou retirar; (c) se as issues continuam sendo o canal ou se haverá e-mail/formulário do projeto; (d) o crédito ao Mapa de la Conciencia como inspiração de formato | P2 |
 | 🟡 | Glossário nas fichas | a primeira ocorrência de cada termo em cada ficha vira link para o glossário, com dica acessível (`aria-describedby` + tooltip que fecha com Esc). Ficaram fora variantes que são palavras comuns ("lado", "despacho", "invocação", "avatar"), formas ambíguas ("ita") e a entidade "exu (Umbanda)", para não ligar o orixá Exu à entidade. Revisores devem conferir se algum outro termo é ligado num sentido errado | P3 |
 | 🟡 | Axe e Lighthouse no CI | o CI roda `scripts/qa_site.py` após o build, mas não o axe: exigiria instalar Playwright/Chromium no runner. Decidir se vale o tempo extra de CI | P3 |
+
+### Redesign do site (sessão redesign, 2026-11-02; [relatório](redesign-01.md))
+
+| Status | Item | O que falta | Prioridade |
+|:-:|---|---|:-:|
+| 🔴 | **Canal de correções para leigos** | o redesign tirou do site as instruções e links de issues do GitHub (pedido do autor: público leigo, sem contatos nem nomes do projeto). Hoje o Sobre (#contribuir) diz que um canal simples será aberto junto com o grupo de revisão. O autor decide o canal (formulário, e-mail do projeto, página de contato) e a sessão do site o acrescenta | **P1** |
+| 🔴 | **Jargão no conteúdo de `data/`** (não editável pela sessão do site) | 82 trechos de capítulos em 25 capítulos usam "fichamento"/"fichado" ("o fichamento não tem registro de…"); 102 versões das fichas têm códigos internos nas observações ("Ver exu-087", "Diverge de xango-035"); 36 trazem "confiabilidade C" nas observações. Sugestão para as sessões de conteúdo: trocar por "as obras lidas até agora", "como em outra versão desta página", "documento de época". O `qa_site.py` §13 desconta o que vem de `data/`; ao limpar, o desconto pode sair | P2 |
+| 🟡 | Créditos de revisores nas versões | as linhas "Revisado por … (tradição) em …" seguem o consentimento de `data/revisores.json` e continuam no site (garantia do §9 do QA); hoje não há revisor cadastrado, então nada aparece. O autor confirma se o crédito por versão continua quando houver revisores | P3 |
+| 🟡 | Leitor de tela real | axe sem violações graves (claro em 2 larguras e amostra no escuro) e teste de teclado (`site/scripts/teclado.cjs`); falta conferir com NVDA/VoiceOver as caixas de nota e o menu do celular | P3 |
 
 ## 3c. Conselho consultivo (Fase 4): depende do autor
 

diff --git a/site/README.md b/site/README.md
@@ -22,17 +22,22 @@ node scripts/acessibilidade.cjs # axe-core em todas as páginas de dist/ (servid
 Publicação num subcaminho (ex.: GitHub Pages): `SITE_BASE=/mapadosorixas npm run build`.
 Deploy e domínio ainda não estão configurados (ver `docs/pesquisa/PENDENCIAS.md`).
 
-| Página | Arquivo |
+Identidade visual e linguagem: ver `docs/pesquisa/redesign-01.md` (Literata + Inter auto-hospedadas, modo claro/escuro em `src/styles/global.css`, textos para público leigo; jargão interno proibido na interface pelo `qa_site.py` §13).
+
+| Página (rótulo no menu) | Arquivo |
 |---|---|
-| Início (com busca) | `src/pages/index.astro` |
-| Catálogo | `src/pages/catalogo.astro` (toda a lista-mestra `data/entidades.json`; sem ficha = "Em pesquisa", sem texto) |
-| Ficha | `src/pages/orixas/[id].astro` (qualquer entidade com registro lido) |
-| Itãs | `src/pages/itans/index.astro` e `src/pages/itans/[id].astro` (só versões lidas de `data/itans.json`) |
+| Início | `src/pages/index.astro` |
+| Livro | `src/pages/livro.astro`; capítulo em `src/pages/orixas/[id]/capitulo.astro` e panorama em `src/pages/[panorama]/capitulo.astro`, ambos com `src/components/Capitulo.astro` (índice lateral, notas que abrem ao toque: `src/lib/notas-popover.ts`) |
+| Orixás | `src/pages/catalogo.astro` (toda a lista-mestra `data/entidades.json`; sem ficha = "Em pesquisa", sem texto) |
+| Página do orixá | `src/pages/orixas/[id].astro` (resumo, capítulo, "Em cada tradição", variações, mitos, conexões, o que falta, fontes) |
+| Mitos | `src/pages/itans/index.astro` e `src/pages/itans/[id].astro` (só versões lidas de `data/itans.json`) |
 | Cosmologia | `src/pages/cosmologia.astro` (só versões do atributo `hierarquia`; sem nenhuma, aviso de estrutura vazia) |
-| Grafo | `src/pages/grafo.astro` (filtros por tipo de conexão, tipo de entidade e tradição) |
-| Fontes | `src/pages/fontes.astro` |
-| Baixar dados | `src/pages/baixar-dados.astro` + `src/pages/dados/[...arquivo].js` (lista em `src/lib/downloads.js`; não publica o fichamento bruto) |
-| Tradições | `src/pages/tradicoes.astro` (descrição só quando `com_fonte`; sem fonte, "descrição pendente de fonte") |
-| Glossário | `src/pages/glossario.astro`; termos ligados nas fichas por `marcarGlossario` (`src/lib/dados.js`), `TextoGlossario.astro` e a dica `src/lib/dica-glossario.ts` |
-| Sobre e créditos | `src/pages/sobre.astro` (contribuições pelas issues do repositório) |
-| Metodologia e limitações | `src/pages/metodologia.astro` (cita registros via `src/components/Ref.astro`; o build falha se o registro não existir ou não estiver fichado) |
+| Mapa de conexões | `src/pages/grafo.astro` (posições calculadas no build; filtros por tipo de relação, tipo de nome e tradição) |
+| Glossário | `src/pages/glossario.astro`; termos ligados por `marcarGlossario` (`src/lib/dados.js`), `TextoGlossario.astro` e `src/lib/dica-glossario.ts` |
+| Sobre | `src/pages/sobre.astro` (absorveu a antiga Metodologia; cita registros via `src/components/Ref.astro`, e o build falha se o registro não existir ou não estiver fichado) |
+| Rodapé: Fontes | `src/pages/fontes.astro` |
+| Rodapé: Tradições e nações | `src/pages/tradicoes.astro` (descrição só quando `com_fonte`; sem fonte, "Descrição em preparo") |
+| Rodapé: Buscar | `src/pages/buscar.astro` (Pagefind) |
+| Rodapé: Dados abertos | `src/pages/baixar-dados.astro` + `src/pages/dados/[...arquivo].js` (lista em `src/lib/downloads.js`; não publica o fichamento bruto) |
+
+Testes do site (depois do build): `python3 ../scripts/qa_site.py`, `node scripts/acessibilidade.cjs` (axe), `node scripts/teclado.cjs` (teclado e toque), `node scripts/screenshots-redesign.cjs depois`.

diff --git a/docs/publicacao.md b/docs/publicacao.md
@@ -10,10 +10,10 @@ Histórico: as execuções nº 1–3 pararam em "Configurar Pages" (`Get Pages s
 
 ## O que é publicado
 
-- O site estático de `site/` (Astro + Cytoscape.js + Pagefind), com as 14 páginas e os arquivos de `/dados/`.
-- **Status de rascunho:** faixa "Rascunho — aguardando revisão de praticantes e pesquisadores" no cabeçalho de **todas** as páginas (com link para as issues), selo nas fichas, aviso de versão inicial em revisão no Início e no Sobre, e `<meta name="robots" content="noindex">` em todas as páginas. Não há sitemap nem `canonical`. (Um `robots.txt` em `/mapadosorixas/robots.txt` não teria efeito: buscadores só leem o da raiz do domínio, que pertence ao GitHub. O que vale é o `noindex`.)
+- O site estático de `site/` (Astro + Cytoscape.js + Pagefind), com Início, Livro, Orixás, páginas de cada orixá e capítulo, Mitos, Cosmologia, Mapa de conexões, Glossário, Tradições, Fontes, Sobre (que absorveu a antiga Metodologia), Buscar e Dados abertos (só no rodapé), mais os arquivos de `/dados/`. Fontes tipográficas Literata e Inter auto-hospedadas (pacotes `@fontsource-variable`, licença OFL), sem chamadas a serviços externos.
+- **Status de rascunho (redesign de 2026-11-02, [relatório](pesquisa/redesign-01.md)):** faixa discreta "Conteúdo em revisão por especialistas" no topo de **todas** as páginas (com link para Sobre → "Conteúdo em revisão"), selo com o mesmo título nas páginas dos orixás, capítulos, mitos e Livro, aviso de versão inicial no Início e no Sobre, e `<meta name="robots" content="noindex">` em todas as páginas. Não há sitemap nem `canonical`. **Sem links de issues do GitHub nem nomes ou contatos de pessoas do projeto** (o canal de correções para leigos está pendente: PENDENCIAS §3b, redesign).
 - **Nada retido nem em pré-fichamento:** tabus/alimentos (`retidos_ate_conselho`) e registros `pre_fichamento` não aparecem; o fichamento bruto não é publicado. O `qa_site.py` confere isso em todos os arquivos do `dist/` antes do deploy.
-- **Licença:** ainda não decidida pelo autor. O rodapé, a página Baixar dados e o `LEIAME.txt` de `/dados/` dizem "licença a definir pelo autor".
+- **Licença:** ainda não decidida pelo autor. O rodapé, a página Dados abertos e o `LEIAME.txt` de `/dados/` dizem "a definir pelo autor".
 
 ## Como o deploy funciona
 
